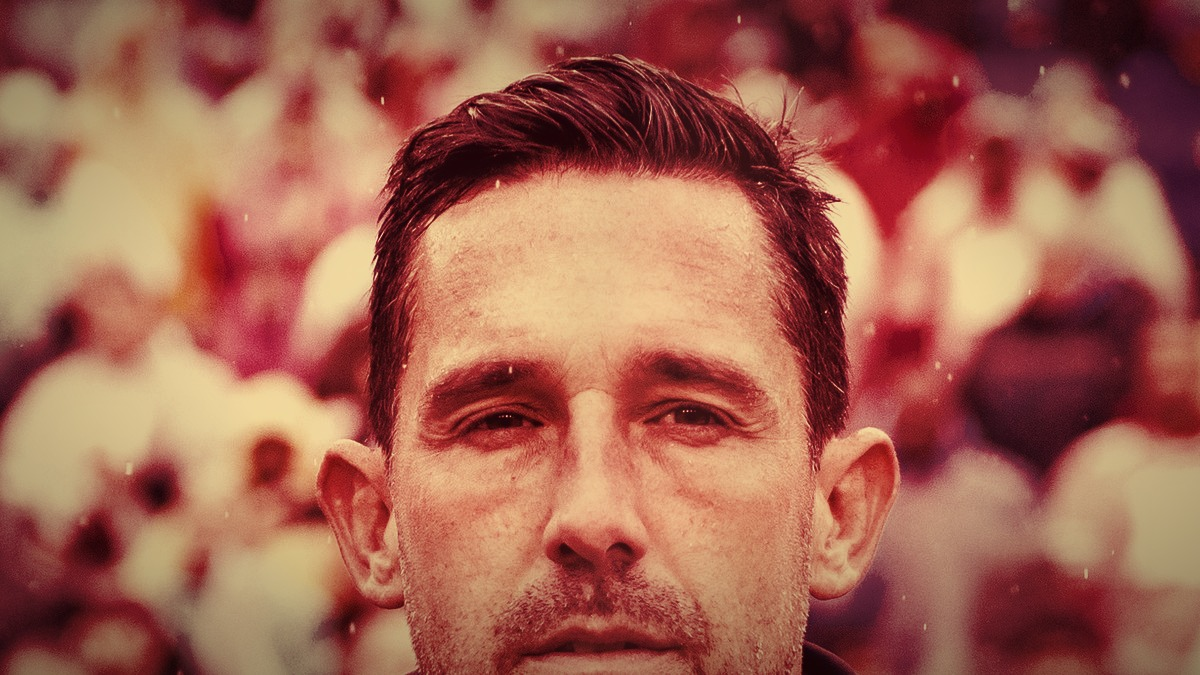
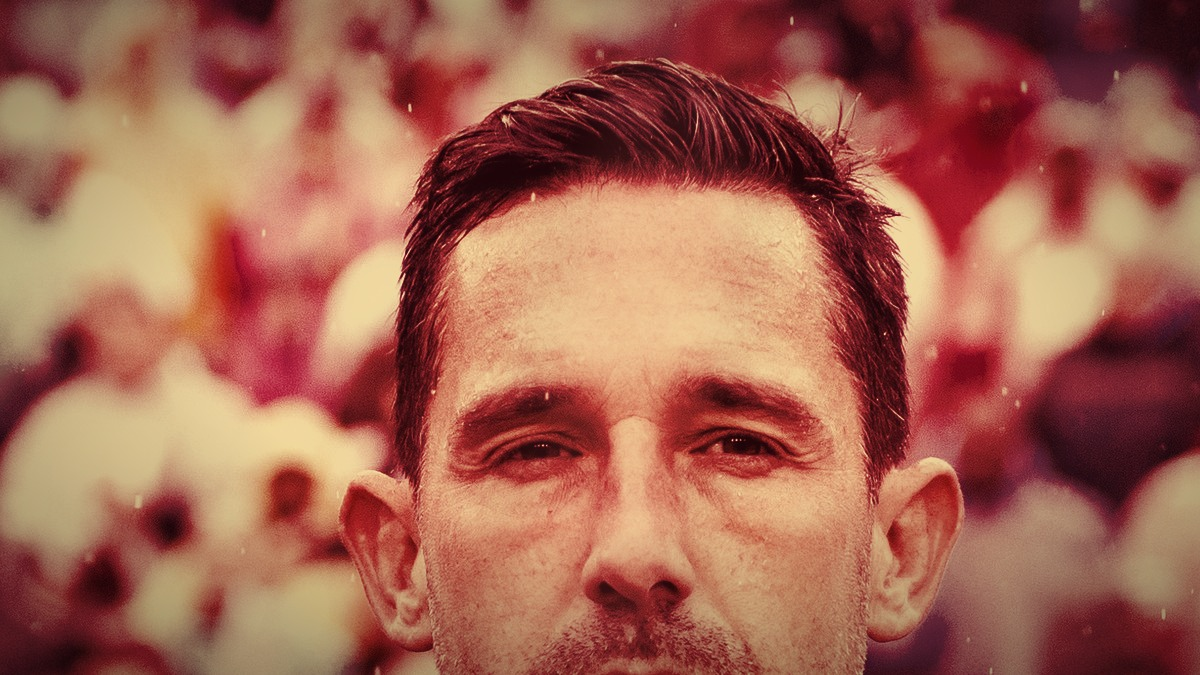
Add 49ers columns: Shanahan recovery update and Stribling camp breakout

diff --git a/articles/49ers-kyle-shanahan-recovery-update-training-camp-2026.html b/articles/49ers-kyle-shanahan-recovery-update-training-camp-2026.html
@@ -1,0 +1,72 @@
+<!DOCTYPE html>
+<html lang="en">
+<head>
+<meta charset="utf-8">
+<meta name="viewport" content="width=device-width,initial-scale=1">
+<title>Kyle Shanahan Update: He's Turning the Corner, and Camp Is Feeling It | Bay Area Sports Blog</title>
+<meta name="description" content="Pads are on at 49ers training camp, and Kyle Shanahan is edging closer to fully running the show again after his July 14 car accident. An update on where his recovery stands as camp ramps up.">
+<meta property="og:image" content="https://bayareasportsblog.com/assets/img/cards/49ers-kyle-shanahan-recovery-update-training-camp-2026.jpg">
+<link rel="canonical" href="https://bayareasportsblog.com/articles/49ers-kyle-shanahan-recovery-update-training-camp-2026.html">
+<link rel="stylesheet" href="../assets/style.css">
+<script type="application/ld+json">{"@context":"https://schema.org","@type":"NewsArticle","headline":"Kyle Shanahan Update: He's Turning the Corner, and Camp Is Feeling It","image":"https://bayareasportsblog.com/assets/img/cards/49ers-kyle-shanahan-recovery-update-training-camp-2026.jpg","datePublished":"2026-07-31","author":{"@type":"Organization","name":"Bay Area Sports Blog"},"publisher":{"@type":"Organization","name":"Bay Area Sports Blog"},"description":"Pads are on at 49ers training camp, and Kyle Shanahan is edging closer to fully running the show again after his July 14 car accident. An update on where his recovery stands as camp ramps up."}</script>
+</head>
+<body>
+<header class="site-header">
+  <div class="wrap hdr-top">
+    <a class="brand" href="../index.html">
+      <span class="mark">BA</span>
+      <span class="name">Bay Area <span>Sports Blog</span><small>49ers &middot; Warriors &middot; Giants &middot; A's &middot; Sharks</small></span>
+    </a>
+    <button class="nav-toggle" aria-label="Menu" onclick="document.querySelector('nav.main').classList.toggle('open')">&#9776;</button>
+    <nav class="main">
+      <ul>
+        <li><a href="../index.html">Home</a></li>
+        <li><a href="../49ers.html">49ers</a></li>
+        <li><a href="../warriors.html">Warriors</a></li>
+        <li><a href="../giants.html">Giants</a></li>
+        <li><a href="../athletics.html">A's</a></li>
+        <li><a href="../sharks.html">Sharks</a></li>
+        <li><a href="../history.html">History</a></li>
+        <li><a href="../dynasties.html">Dynasties</a></li>
+        <li><a href="../timeline.html">Timeline</a></li>
+        <li><a href="../blog.html">Blog</a></li>
+      </ul>
+    </nav>
+  </div>
+</header>
+
+<article class="article">
+  <span class="tag">49ers &middot; Column</span>
+  <h1>Kyle Shanahan Update: He's Turning the Corner, and Camp Is Feeling It</h1>
+  <p style="font-size:19px;color:#cdd2db;margin:-4px 0 20px;font-style:italic">Pads are on, practices are getting physical, and Kyle Shanahan is closer to being fully back in the middle of it. Two and a half weeks removed from a car accident that broke his nose, three ribs, and his hand, the coach is starting to look like himself again.</p>
+  <div class="byline">Bay Area Sports Blog Staff &middot; 49ers Column</div>
+  <figure style="margin:0 0 30px;text-align:center">
+    <img src="../assets/img/players/kyle-shanahan-real.jpg" alt="Kyle Shanahan, head coach of the San Francisco 49ers" style="display:block;width:100%;max-width:760px;height:auto;margin:0 auto;object-fit:contain;background:var(--surface);border-radius:12px;border:1px solid var(--line)">
+    <figcaption style="color:var(--muted);font-size:14px;margin-top:10px;font-style:italic">Kyle Shanahan is easing back into a full workload as training camp ramps up, less than three weeks removed from a serious car accident.</figcaption>
+  </figure>
+
+  <p>Camp has a way of telling you the truth fast, and the truth this week is a good one: Kyle Shanahan looks like a coach who is genuinely getting better, not just a coach who is showing up because the calendar says he has to. The first padded practice of the summer came and went with real physicality, Greenlaw and McCaffrey included, and Shanahan was out there taking it in, more involved by the day than he was a week ago. For a guy who was dealing with a severe concussion, a broken nose, three broken ribs, and a broken hand less than three weeks ago, that is exactly the trajectory Niner Nation was hoping for and, frankly, needed to see.</p>
+
+  <p>Nobody is rushing this, and that's the right call. A concussion doesn't run on a football schedule, and the staff has been careful about how much they put on him early, letting Chris Foerster and the rest of one of the deepest coaching rooms in the league carry the install while Shanahan works his way back to full speed. But "careful" hasn't meant "absent." He's on the practice fields more each day, he's more hands-on with the install than he was at the start of the week, and the version of him running around the fringes of these padded practices already looks a lot closer to the coach who has this roster believing in a Super Bowl run than the one who was in a hospital bed three weeks ago.</p>
+
+  <p>It matters more than usual this year, too, because of how loaded this roster actually is. This isn't a rebuilding team that can afford to ease its head coach in over a full season. This is a team with Purdy playing the best football of his career, a fully healthy McCaffrey, Mike Evans and Christian Kirk in the receiver room, Bosa and Warner back from injury, and now Deebo Samuel back in the building on a bargain deal. Every piece of that only works at its ceiling with Shanahan fully running it. So every day this week that he looks a little more like himself, a little more locked into the install, a little less limited than the day before, is a genuinely big deal for how this season is shaping up.</p>
+
+  <p>Read the room around the building right now and the tone is cautious optimism bordering on relief. The scary part of this story was always the first 48 hours, when nobody knew how bad it really was. The recovery part is the part everyone can actually watch play out in real time, and what we're watching right now is a guy healing on schedule, getting more involved in camp with every practice, and clearly itching to get all the way back to being the one calling every rep. That's the version of this story Niner Nation wanted from the start. Keep healing, coach. It's working.</p>
+
+  <p style="margin-top:30px;color:var(--muted);font-size:15px">More coverage: <a href="../49ers.html" style="color:var(--accent2);font-weight:700">49ers section</a> &middot; <a href="../columns.html" style="color:var(--accent2);font-weight:700">Columns</a> &middot; <a href="../index.html" style="color:var(--accent2);font-weight:700">Bay Area Sports Blog home</a></p>
+</article>
+
+<section class="related">
+  <h3>Related columns</h3>
+  <div class="rel-grid">
+    <a href="49ers-kyle-shanahan-car-accident-injuries-recovery-2026.html"><div class="rc">49ers &middot; Column</div><h4>Kyle Shanahan's Car Accident Was Scarier Than We Knew</h4></a>
+    <a href="49ers-greenlaw-mccaffrey-pads-day-one-favorite-player-2026.html"><div class="rc">49ers &middot; Column</div><h4>Dre Greenlaw Hit Too Hard on Day One of Pads, and Christian McCaffrey Still Calls Him His Favorite Player</h4></a>
+    <a href="49ers-shanahan-best-team-if-healthy-super-bowl-2026.html"><div class="rc">49ers &middot; Column</div><h4>This Might Be the Best Team Kyle Shanahan Has Ever Had</h4></a>
+  </div>
+</section>
+
+<footer class="site-footer">
+  <div class="foot-bottom">&copy; 2026 Bay Area Sports Blog. All rights reserved. &middot; <a href="../index.html">Home</a> &middot; <a href="../49ers.html">49ers</a> &middot; <a href="../about.html">About</a></div>
+</footer>
+</body>
+</html>

diff --git a/articles/49ers-dezhaun-stribling-training-camp-starter-2026.html b/articles/49ers-dezhaun-stribling-training-camp-starter-2026.html
@@ -1,0 +1,72 @@
+<!DOCTYPE html>
+<html lang="en">
+<head>
+<meta charset="utf-8">
+<meta name="viewport" content="width=device-width,initial-scale=1">
+<title>De'Zhaun Stribling Keeps Balling Out in Camp, and a Starting Job Is Starting to Look Inevitable | Bay Area Sports Blog</title>
+<meta name="description" content="The 49ers' rookie wide receiver De'Zhaun Stribling isn't just flashing anymore, he's stacking good days on top of good days at training camp. At this rate, a Week 1 starting job is starting to look like the floor, not the ceiling.">
+<meta property="og:image" content="https://bayareasportsblog.com/assets/img/cards/49ers-dezhaun-stribling-training-camp-starter-2026.jpg">
+<link rel="canonical" href="https://bayareasportsblog.com/articles/49ers-dezhaun-stribling-training-camp-starter-2026.html">
+<link rel="stylesheet" href="../assets/style.css">
+<script type="application/ld+json">{"@context":"https://schema.org","@type":"NewsArticle","headline":"De'Zhaun Stribling Keeps Balling Out in Camp, and a Starting Job Is Starting to Look Inevitable","image":"https://bayareasportsblog.com/assets/img/cards/49ers-dezhaun-stribling-training-camp-starter-2026.jpg","datePublished":"2026-07-31","author":{"@type":"Organization","name":"Bay Area Sports Blog"},"publisher":{"@type":"Organization","name":"Bay Area Sports Blog"},"description":"The 49ers' rookie wide receiver De'Zhaun Stribling isn't just flashing anymore, he's stacking good days on top of good days at training camp. At this rate, a Week 1 starting job is starting to look like the floor, not the ceiling."}</script>
+</head>
+<body>
+<header class="site-header">
+  <div class="wrap hdr-top">
+    <a class="brand" href="../index.html">
+      <span class="mark">BA</span>
+      <span class="name">Bay Area <span>Sports Blog</span><small>49ers &middot; Warriors &middot; Giants &middot; A's &middot; Sharks</small></span>
+    </a>
+    <button class="nav-toggle" aria-label="Menu" onclick="document.querySelector('nav.main').classList.toggle('open')">&#9776;</button>
+    <nav class="main">
+      <ul>
+        <li><a href="../index.html">Home</a></li>
+        <li><a href="../49ers.html">49ers</a></li>
+        <li><a href="../warriors.html">Warriors</a></li>
+        <li><a href="../giants.html">Giants</a></li>
+        <li><a href="../athletics.html">A's</a></li>
+        <li><a href="../sharks.html">Sharks</a></li>
+        <li><a href="../history.html">History</a></li>
+        <li><a href="../dynasties.html">Dynasties</a></li>
+        <li><a href="../timeline.html">Timeline</a></li>
+        <li><a href="../blog.html">Blog</a></li>
+      </ul>
+    </nav>
+  </div>
+</header>
+
+<article class="article">
+  <span class="tag">49ers &middot; Column</span>
+  <h1>De'Zhaun Stribling Keeps Balling Out in Camp, and a Starting Job Is Starting to Look Inevitable</h1>
+  <p style="font-size:19px;color:#cdd2db;margin:-4px 0 20px;font-style:italic">This isn't a one-good-practice story anymore. De'Zhaun Stribling has strung together good day after good day at 49ers camp, and the more reps he gets with Brock Purdy, the harder it is to picture him starting the season anywhere but on the field.</p>
+  <div class="byline">Bay Area Sports Blog Staff &middot; 49ers Column</div>
+  <figure style="margin:0 0 30px;text-align:center">
+    <img src="../assets/img/players/levis-stadium-real.jpg" alt="Levi's Stadium, home of the San Francisco 49ers" style="display:block;width:100%;max-width:760px;height:auto;margin:0 auto;object-fit:contain;background:var(--surface);border-radius:12px;border:1px solid var(--line)">
+    <figcaption style="color:var(--muted);font-size:14px;margin-top:10px;font-style:italic">Levi's Stadium, where De'Zhaun Stribling is making the loudest case of any rookie on this roster for a Week 1 starting job.</figcaption>
+  </figure>
+
+  <p>Every camp has a rookie who flashes for a day and disappears for a week. That was never going to be the De'Zhaun Stribling story, and by now it's clear why. The chemistry with Brock Purdy that showed up early in camp hasn't faded, it's deepened, and the routes that looked clean for a first-year receiver a couple weeks ago now just look clean, period, no rookie asterisk required. He's not just making the highlight rep of the day anymore. He's the guy consistently winning his rep, day after day, which is the actual signal that separates a camp flash from a real football player.</p>
+
+  <p>Here's what makes it so believable: he isn't getting served up easy looks. This receiver room has real veterans in it now. Mike Evans is in the building as a proven X. Christian Kirk is on a shrewd one-year deal. Ricky Pearsall is fighting for his own bigger role. Stribling isn't winning reps because the corner across from him doesn't know the offense yet or because the room is thin and desperate for bodies. He's winning them against real competition for real reps, which is exactly the kind of camp battle a team wants its first-round pick fighting and exactly the kind this one looks like he's winning.</p>
+
+  <p>And that's why the "is he a starter" question is starting to feel like the wrong question. The right one is what role he starts in. Purdy trusting him on back-shoulder throws and double moves this early in camp isn't a small thing, that's the kind of rep quarterbacks usually reserve for receivers they've played a full season with. If that trust keeps building the way it has been, Kyle Shanahan doesn't have much of a decision to make. You don't bury production and chemistry like this on the bench because a guy is technically a rookie. You put your best players on the field, and right now Stribling is playing like one of them.</p>
+
+  <p>The best part for Niner Nation is that none of this is happening in a vacuum where the offense needs him to be great immediately. Evans, Kirk, Kittle, and a fully healthy McCaffrey mean Stribling gets to keep developing without the offense leaning on him to be the whole answer. But make no mistake, "gets to develop" and "is going to start" are not the same sentence anymore. At the rate he's going, this rookie isn't waiting for an opportunity. He's taking it, one clean rep at a time, and by the time the lights come on for real in September, don't be surprised if De'Zhaun Stribling is just called a starter instead of a rookie who earned it.</p>
+
+  <p style="margin-top:30px;color:var(--muted);font-size:15px">More coverage: <a href="../49ers.html" style="color:var(--accent2);font-weight:700">49ers section</a> &middot; <a href="../columns.html" style="color:var(--accent2);font-weight:700">Columns</a> &middot; <a href="../index.html" style="color:var(--accent2);font-weight:700">Bay Area Sports Blog home</a></p>
+</article>
+
+<section class="related">
+  <h3>Related columns</h3>
+  <div class="rel-grid">
+    <a href="49ers-purdy-stribling-chemistry-loaded-roster-2026.html"><div class="rc">49ers &middot; Column</div><h4>Purdy and Rookie De'Zhaun Stribling Are Already Cooking, and This Niners Roster Is Loaded</h4></a>
+    <a href="49ers-deebo-samuel-returns-one-year-7-million-2026.html"><div class="rc">49ers &middot; Column</div><h4>Deebo Samuel Is Coming Home: 49ers Bring Him Back on a One-Year, $7 Million Deal</h4></a>
+    <a href="49ers-shanahan-best-team-if-healthy-super-bowl-2026.html"><div class="rc">49ers &middot; Column</div><h4>This Might Be the Best Team Kyle Shanahan Has Ever Had</h4></a>
+  </div>
+</section>
+
+<footer class="site-footer">
+  <div class="foot-bottom">&copy; 2026 Bay Area Sports Blog. All rights reserved. &middot; <a href="../index.html">Home</a> &middot; <a href="../49ers.html">49ers</a> &middot; <a href="../about.html">About</a></div>
+</footer>
+</body>
+</html>

diff --git a/49ers.html b/49ers.html
@@ -54,6 +54,24 @@
 <section class="zone"><div class="wrap">
 <div class="sec-head"><div><h2>Latest in 49ers</h2></div><a class="sh-all" href="blog.html">All stories</a></div>
 <div class="mag">
+<a class="st w3" href="articles/49ers-kyle-shanahan-recovery-update-training-camp-2026.html">
+  <div class="st-img"><img src="assets/img/cards/49ers-kyle-shanahan-recovery-update-training-camp-2026.jpg" alt="Kyle Shanahan, head coach of the San Francisco 49ers"></div>
+  <div class="st-b">
+    <div><span class="pill niners">49ers Column</span></div>
+    <h3>Kyle Shanahan Update: He's Turning the Corner, and Camp Is Feeling It</h3>
+    <p>Pads are on, practices are getting physical, and the coach is closer to being fully back in the middle of it, less than three weeks removed from a serious car accident.</p>
+    <div class="st-f">Read the column</div>
+  </div>
+</a>
+<a class="st w3" href="articles/49ers-dezhaun-stribling-training-camp-starter-2026.html">
+  <div class="st-img"><img src="assets/img/cards/49ers-dezhaun-stribling-training-camp-starter-2026.jpg" alt="Levi's Stadium, home of the San Francisco 49ers"></div>
+  <div class="st-b">
+    <div><span class="pill niners">49ers Column</span></div>
+    <h3>De'Zhaun Stribling Keeps Balling Out in Camp, and a Starting Job Is Starting to Look Inevitable</h3>
+    <p>The rookie wide receiver isn't flashing for a day anymore, he's stacking good day after good day with Brock Purdy. At this rate, a Week 1 starting job looks like the floor, not the ceiling.</p>
+    <div class="st-f">Read the column</div>
+  </div>
+</a>
 <a class="st w3" href="articles/49ers-deebo-samuel-returns-one-year-7-million-2026.html">
   <div class="st-img"><img src="assets/img/cards/49ers-deebo-samuel-returns-one-year-7-million-2026.jpg" alt="Deebo Samuel of the San Francisco 49ers"></div>
   <div class="st-b">

diff --git a/index.html b/index.html
@@ -163,6 +163,26 @@
 
     <div class="mag">
 
+      <a class="st w3" href="articles/49ers-kyle-shanahan-recovery-update-training-camp-2026.html">
+        <div class="st-img"><img src="assets/img/cards/49ers-kyle-shanahan-recovery-update-training-camp-2026.jpg" alt="Kyle Shanahan, head coach of the San Francisco 49ers"></div>
+        <div class="st-b">
+          <div><span class="pill niners">49ers</span></div>
+          <h3>Kyle Shanahan Update: He's Turning the Corner, and Camp Is Feeling It</h3>
+          <p>Pads are on, practices are getting physical, and the coach is closer to being fully back in the middle of it, less than three weeks removed from a serious car accident.</p>
+          <div class="st-f">Read the column</div>
+        </div>
+      </a>
+
+      <a class="st w3" href="articles/49ers-dezhaun-stribling-training-camp-starter-2026.html">
+        <div class="st-img"><img src="assets/img/cards/49ers-dezhaun-stribling-training-camp-starter-2026.jpg" alt="Levi's Stadium, home of the San Francisco 49ers"></div>
+        <div class="st-b">
+          <div><span class="pill niners">49ers</span></div>
+          <h3>De'Zhaun Stribling Keeps Balling Out in Camp, and a Starting Job Is Starting to Look Inevitable</h3>
+          <p>The rookie wide receiver isn't flashing for a day anymore, he's stacking good day after good day with Brock Purdy. At this rate, a Week 1 starting job looks like the floor, not the ceiling.</p>
+          <div class="st-f">Read the column</div>
+        </div>
+      </a>
+
       <a class="st w3" href="articles/49ers-deebo-samuel-returns-one-year-7-million-2026.html">
         <div class="st-img"><img src="assets/img/cards/49ers-deebo-samuel-returns-one-year-7-million-2026.jpg" alt="Deebo Samuel of the San Francisco 49ers"></div>
         <div class="st-b">

diff --git a/blog.html b/blog.html
@@ -59,6 +59,24 @@
 
   <section class="zone"><div class="wrap">
     <div class="mag">
+      <a class="st w2" href="articles/49ers-kyle-shanahan-recovery-update-training-camp-2026.html">
+  <div class="st-img"><img src="assets/img/cards/49ers-kyle-shanahan-recovery-update-training-camp-2026.jpg" alt="Kyle Shanahan, head coach of the San Francisco 49ers"></div>
+  <div class="st-b">
+    <div><span class="pill niners">49ers</span></div>
+    <h3>Kyle Shanahan Update: He's Turning the Corner, and Camp Is Feeling It</h3>
+    <p>Pads are on, and the coach is closer to being fully back in the middle of it, less than three weeks removed from a serious car accident.</p>
+    <div class="st-f">Read</div>
+  </div>
+</a>
+      <a class="st w2" href="articles/49ers-dezhaun-stribling-training-camp-starter-2026.html">
+  <div class="st-img"><img src="assets/img/cards/49ers-dezhaun-stribling-training-camp-starter-2026.jpg" alt="Levi's Stadium, home of the San Francisco 49ers"></div>
+  <div class="st-b">
+    <div><span class="pill niners">49ers</span></div>
+    <h3>De'Zhaun Stribling Keeps Balling Out in Camp, and a Starting Job Is Starting to Look Inevitable</h3>
+    <p>The rookie wide receiver isn't flashing for a day anymore, he's stacking good day after good day with Brock Purdy.</p>
+    <div class="st-f">Read</div>
+  </div>
+</a>
       <a class="st w2" href="articles/49ers-deebo-samuel-returns-one-year-7-million-2026.html">
   <div class="st-img"><img src="assets/img/cards/49ers-deebo-samuel-returns-one-year-7-million-2026.jpg" alt="Deebo Samuel of the San Francisco 49ers"></div>
   <div class="st-b">
